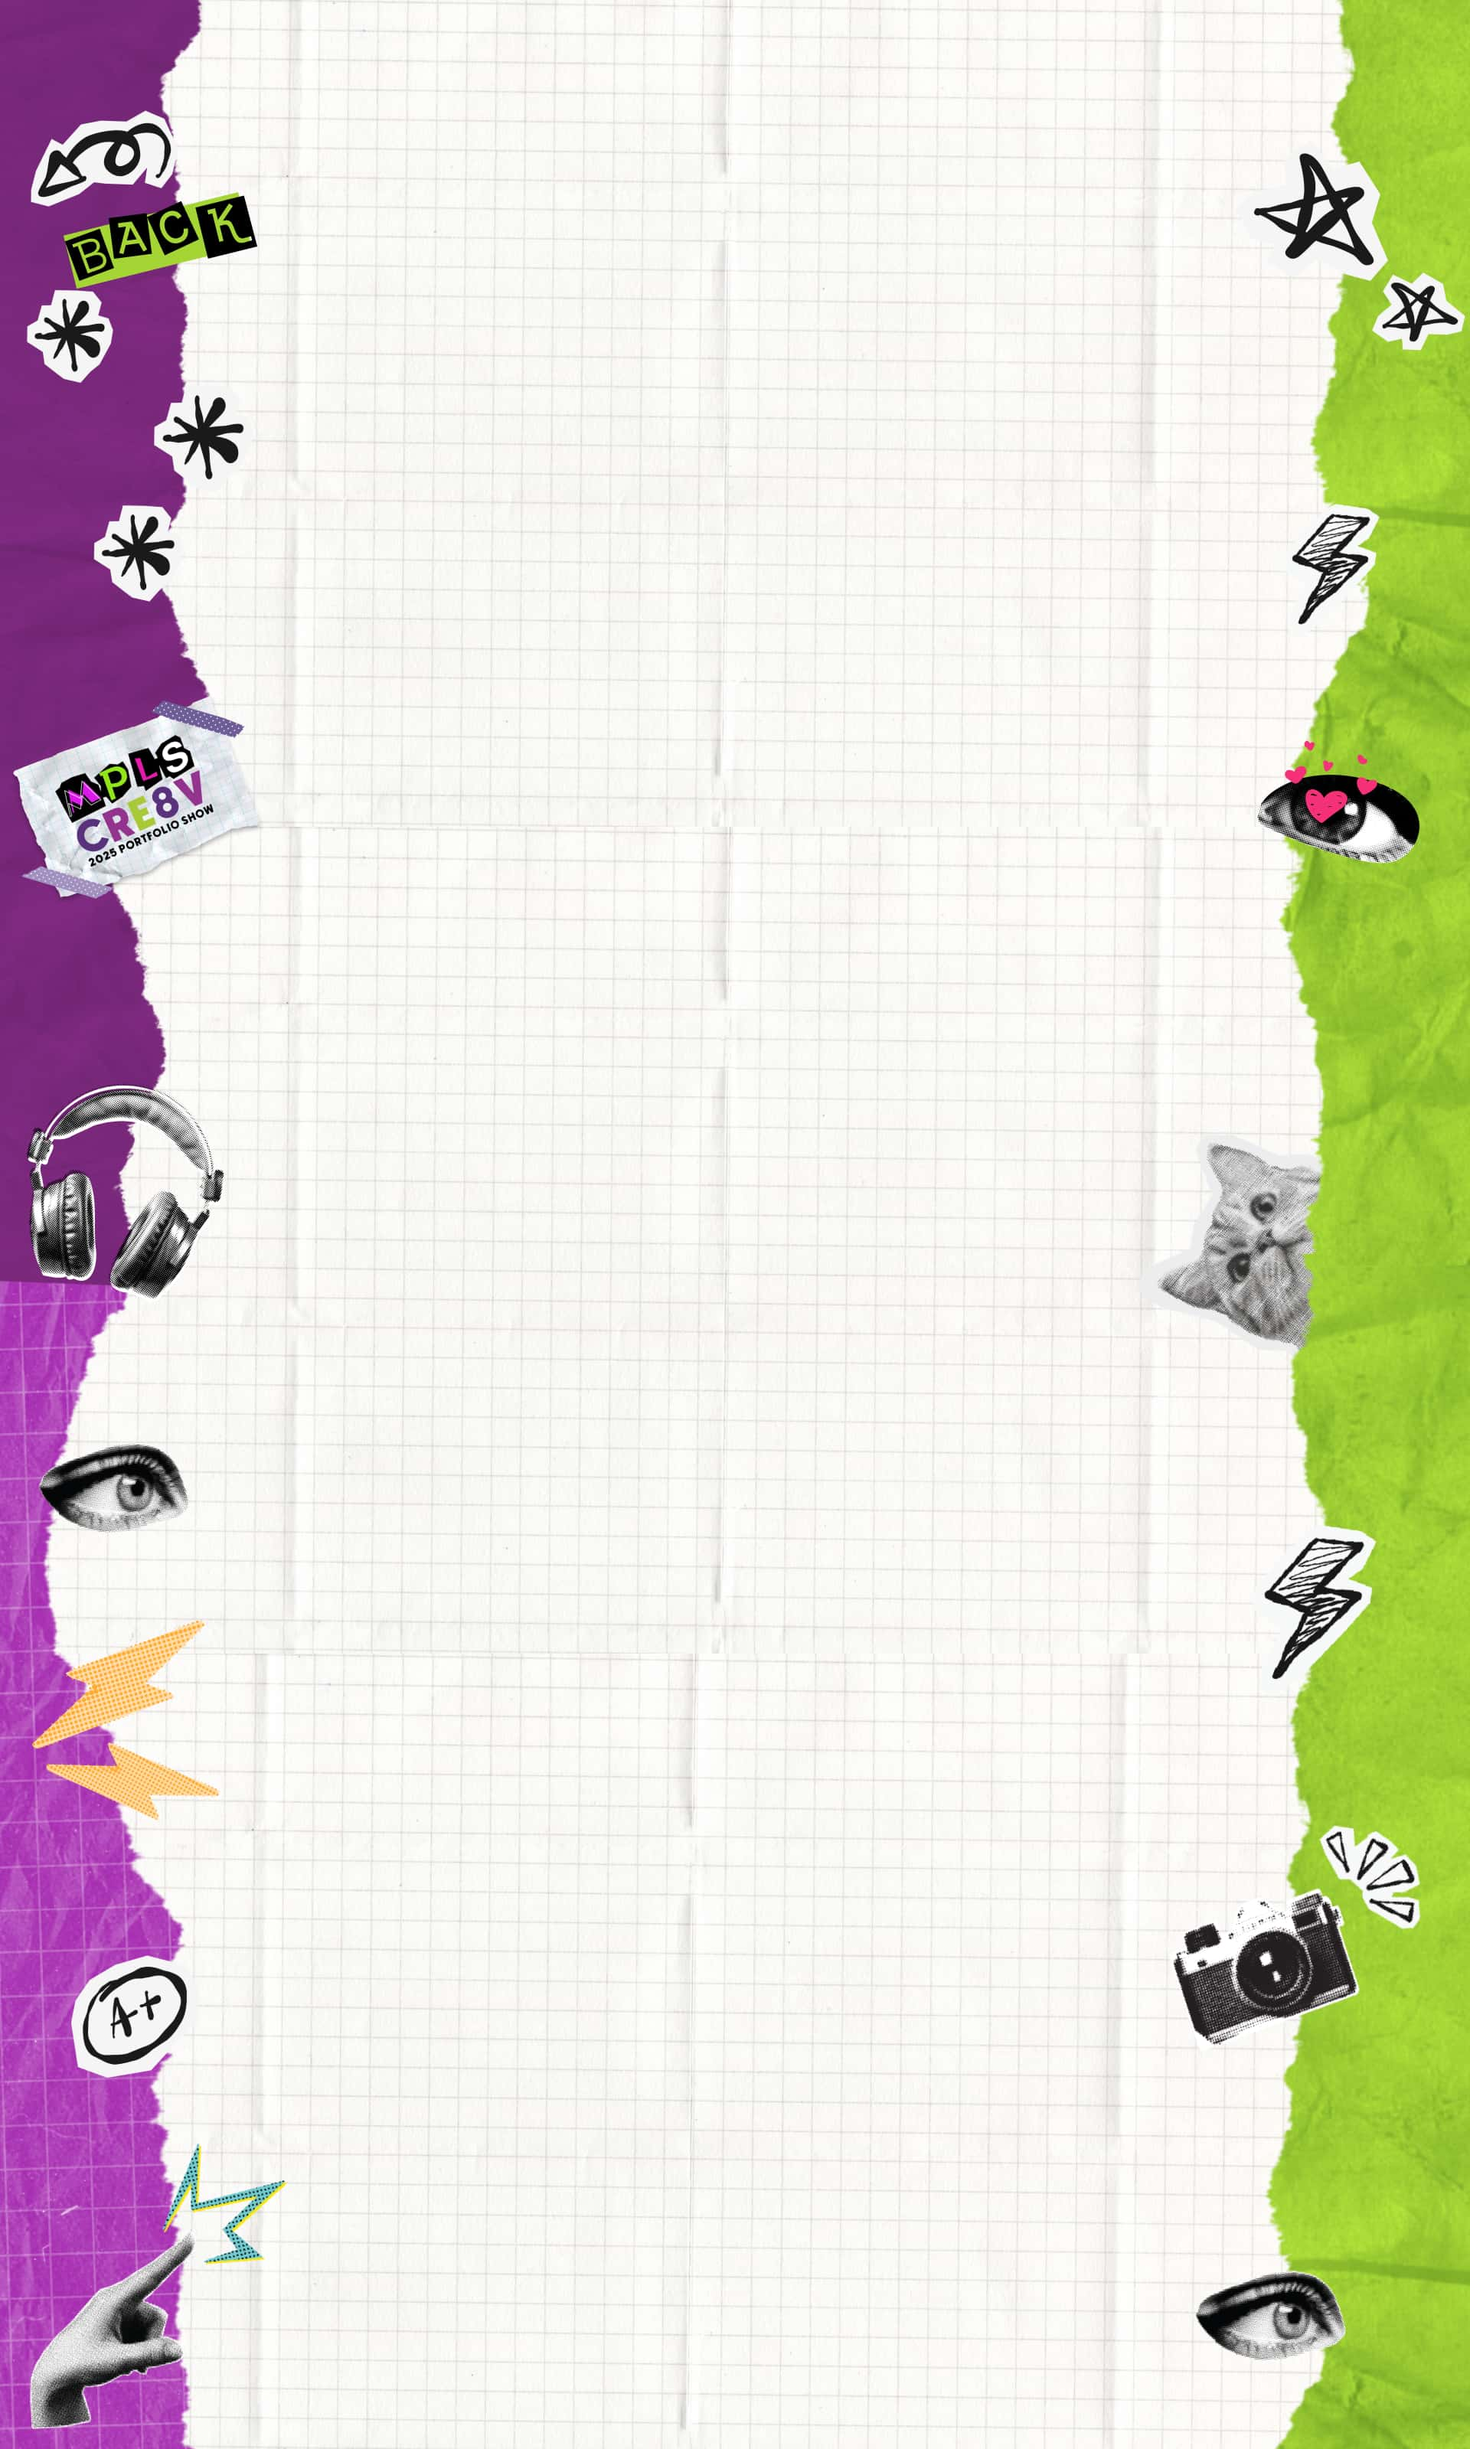
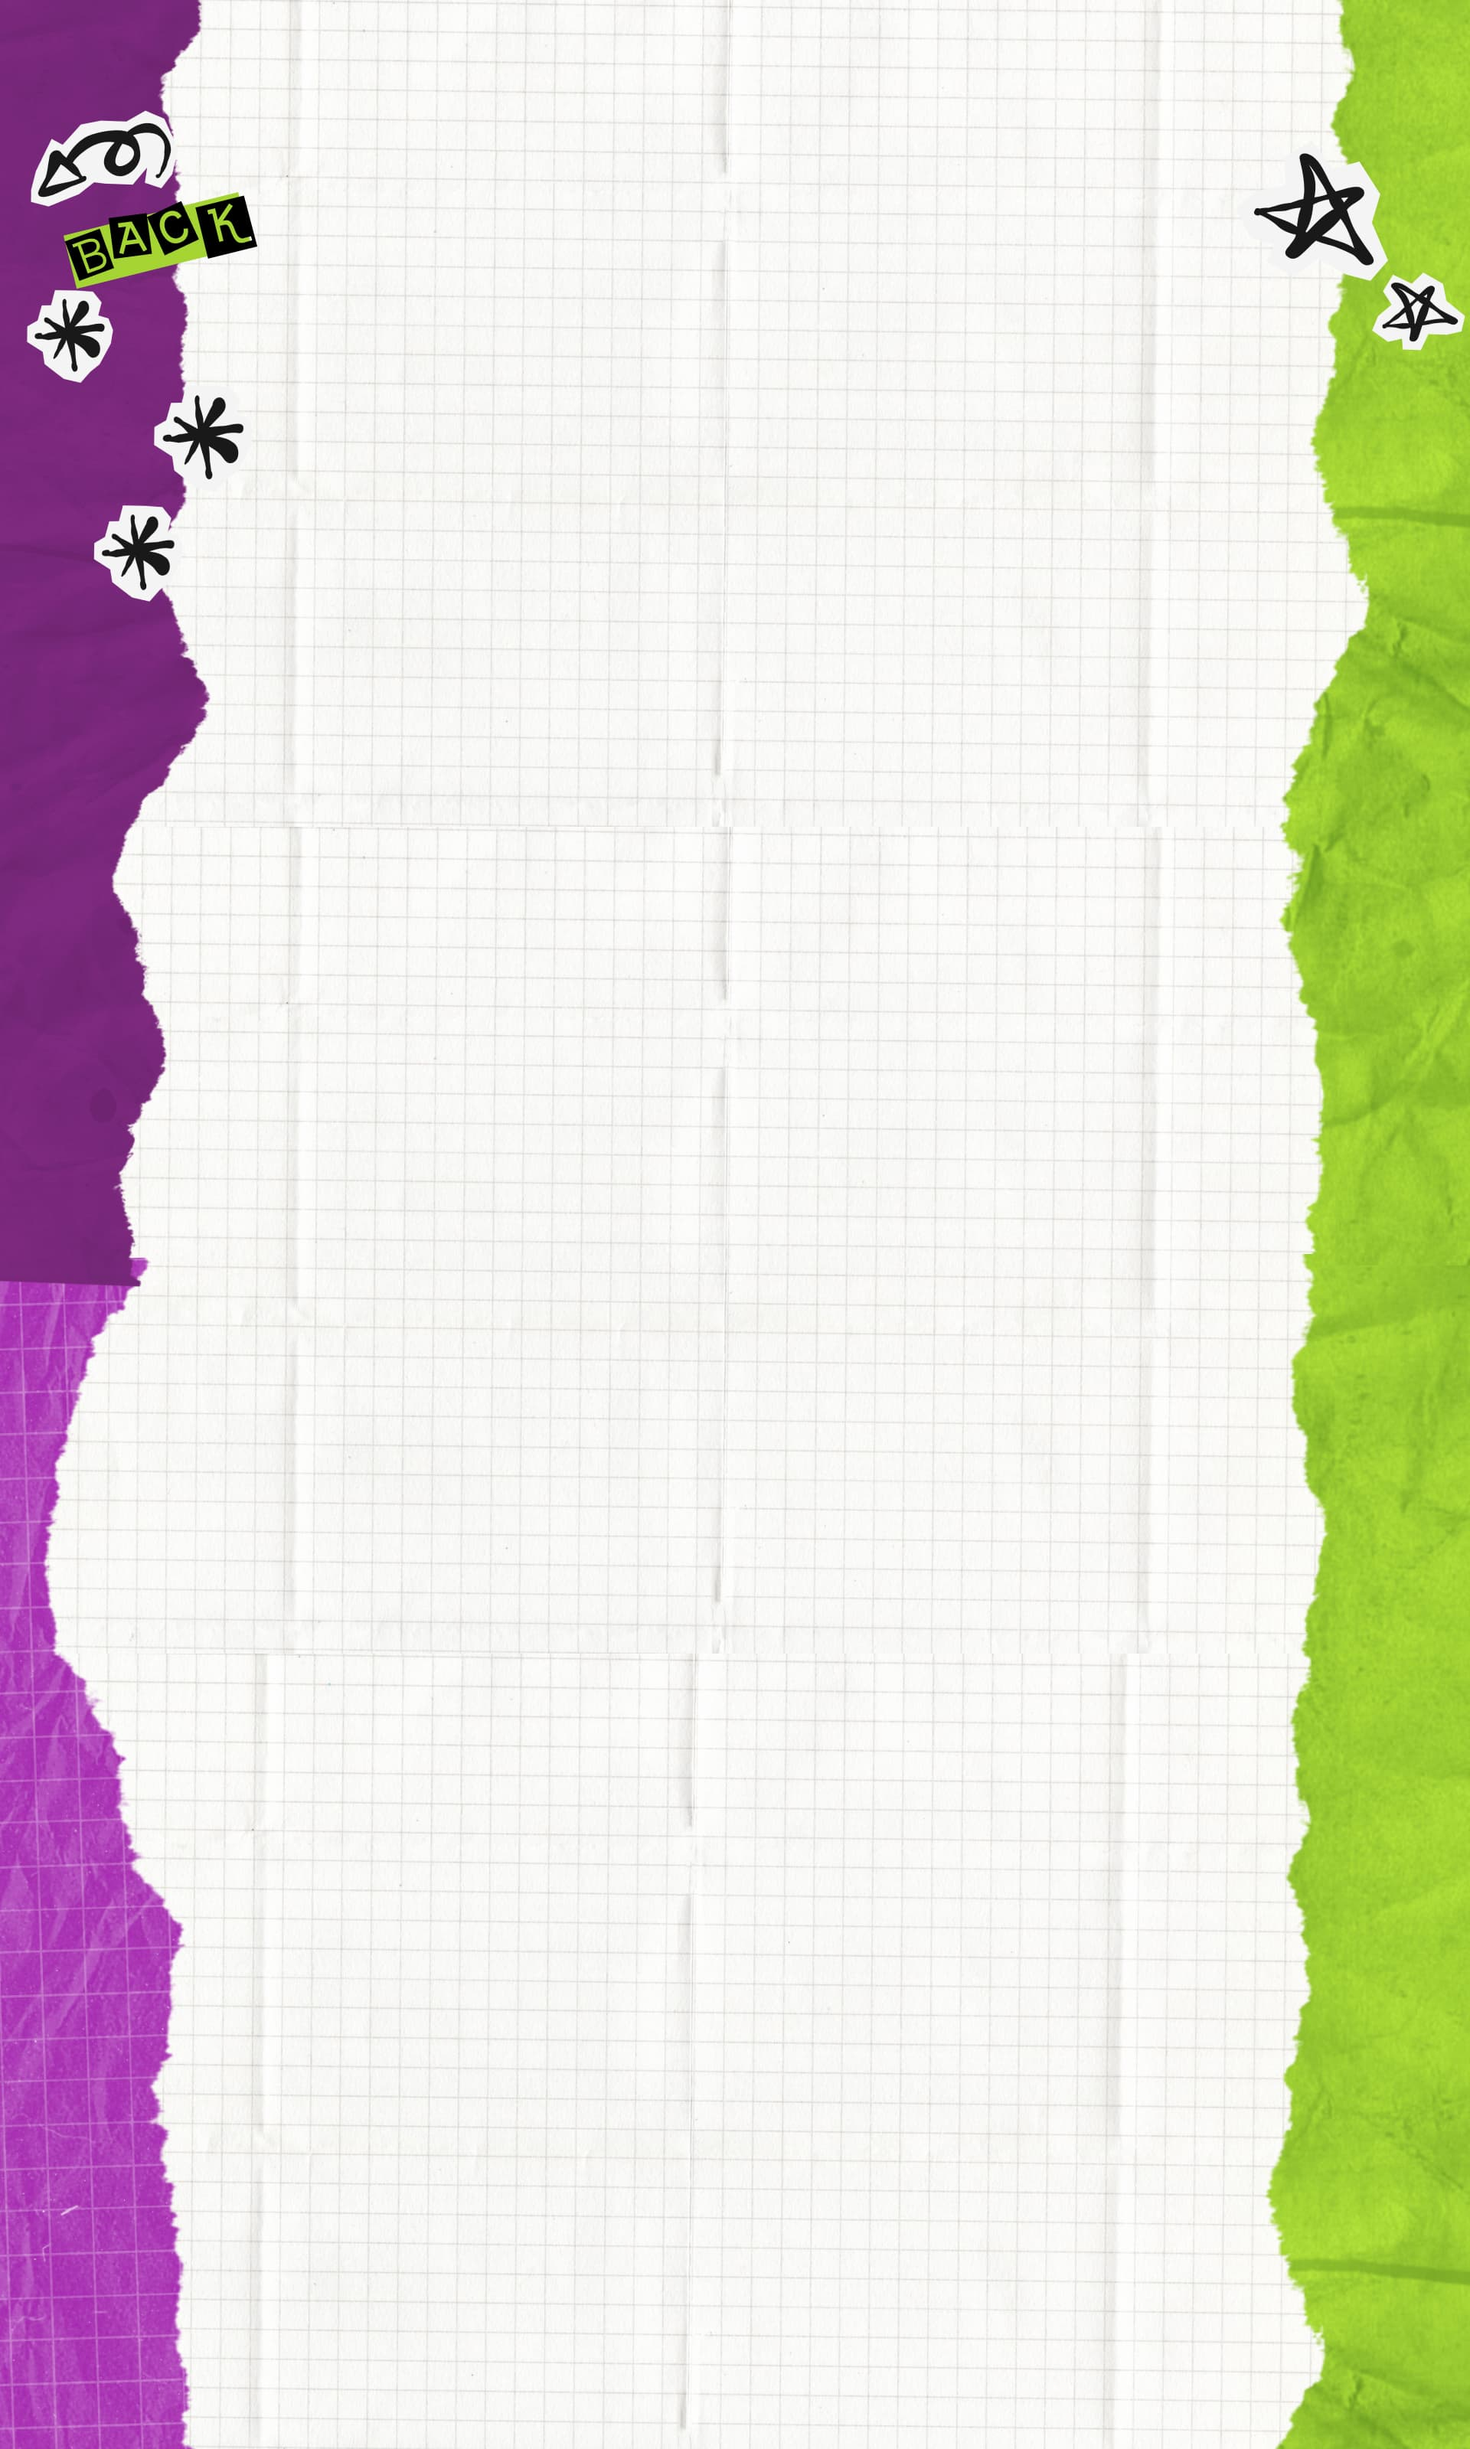
footer css and footer added to student-detail-flat html file

diff --git a/css/footer.css b/css/footer.css
@@ -1,0 +1,150 @@
+footer {
+    width: 100%;
+    background-image: url("../images/footer-bg.png");
+    background-size: initial;
+    height: 15rem;
+    background-position-x: center;
+    background-position-y: -8rem;
+    display: flex;
+    justify-content: space-between;
+    z-index: 100;
+    position: relative;
+    overflow: hidden;
+}
+
+.footer-logo-div,
+.college-logo-div {
+    width: 17rem;
+    text-align: center;
+}
+
+#footer-logo {
+    width: 16rem;
+    position: absolute;
+    left: -2rem;
+    bottom: 0;
+}
+
+#college-logo {
+    width: 8rem;
+  position: absolute;
+  bottom: 2rem;
+  right: 2rem;
+}
+
+.footer-links-div {
+  width: 17rem;
+  position: relative;
+  text-align: center;
+}
+
+footer p {
+    color: black;
+    font-size: 1.1rem;
+    margin-top: 8rem;
+    margin-bottom: 0;
+}
+
+footer ul {
+    list-style-type: none;
+    margin: 0;
+    padding: 0;
+    position: relative;
+    width: 17rem;
+    display: flex;
+    justify-content: space-between;
+    align-items: center;
+  }
+
+footer a:link,
+footer a:visited {
+    color: black;
+    font-size: 1.2rem;
+    text-decoration: none;
+}
+
+footer a:hover,
+footer a:active {
+    text-decoration: underline;
+}
+
+div.dakhota-land-container {
+    display: flex;
+    flex-direction: row;
+    justify-content: flex-end;
+    height: fit-content;
+    position: absolute;
+    width: 100%;
+    bottom: 8rem;
+    z-index: 5;
+}
+
+div.dakhota-land {
+    display: flex;
+  flex-direction: column;
+}
+
+.dakhota-land p {
+    font-family: "Permanent Marker";
+    width: 13rem;
+    font-size: 0.8rem;
+    text-align: center;
+}
+
+.dakhota-land img {
+    width: 13rem;
+}
+
+
+
+/* Medium devices (tablets, less than 1200px) */
+@media (max-width: 1199.98px) {
+    div.dakhota-land-container {
+        bottom: -3rem;
+    }
+ }
+
+/* Small devices (landscape phones, less than 768px) */
+@media (max-width: 767.98px) { 
+    footer {
+        flex-direction: column;
+        /* background-image: none;
+        background-color: #4EC054; */
+        background-position-y: -9rem;
+        height: 18rem;
+    }
+    .footer-logo-div {
+        display: none;
+    }
+    .footer-links-div {
+        width: 100%;
+        top: 4rem;
+        display: flex;
+        flex-direction: column;
+    }
+    footer p {
+        margin-top: 1rem;
+        text-align: center;
+    }
+    footer ul {
+        top: 0;
+        width: 100%;
+        justify-content: space-evenly;
+        width: 15rem;
+        margin: 0 auto;
+    }
+    .college-logo-div {
+        width: 100%;
+        text-align: center;
+    }
+    #college-logo{
+        position: relative;
+        bottom: 3rem;
+        right: 0;
+    }
+    div.dakhota-land-container {
+        position: absolute;
+        bottom: 16rem;
+        justify-content: center;
+    }
+ }

diff --git a/css/studentdetail.css b/css/studentdetail.css
@@ -11,7 +11,7 @@ main {
     background-size: cover;
     max-width: 1400px;
     height: 100%;
-    margin: 0 auto;
+    margin: 0 auto -15rem; /* THE NEGATIVE MARGIN IS NEEDED FOR THE FOOTER */
 }
 nav {
     height: 3rem;
@@ -40,7 +40,7 @@ nav {
     margin-top: 4rem;
 }
 .second-column {
-    padding-bottom: 15rem;
+    padding-bottom: 25rem;
 }
 .extra-tall {
     font-size: 400px;
@@ -83,22 +83,21 @@ nav {
 }
 .major {
     position: relative;
-  top: 1.85rem;
+  top: 0.85rem;
   text-align: center;
   font-size: 1.5rem;
   color: rgb(60, 0, 128)
 }
 .portrait img {
     width: 17rem;
-    position: relative;
-    top: 0.5rem;
-    left: 0.5rem;
+    margin: 0.5rem;
 }
 
 .statement {
     position: relative;
   top: 0.5rem;
   line-height: 1.6rem;
+  text-align: left;
 }
 
 .photo-tile {
@@ -106,6 +105,7 @@ nav {
     position: relative;
     margin: 0 0 1.75rem;
     padding: 0.5rem;
+    margin: 0 auto;
     width: max-content;
     box-shadow: rgba(0, 0, 0, 0.54) 0px 3px 8px;
     transition: transform 0.1s;
@@ -171,7 +171,7 @@ nav {
 }
 #instagram::after {
     content: ' ';
-    background-image: url('../images/instagram2.svg');
+    background-image: url('../images/instagram.svg');
     background-size: contain;
     height: 3rem;
     width: 3rem;
@@ -237,8 +237,13 @@ nav {
     background-color: rgba(0,0,0,0.5);
 }
 
-/* Medium devices (tablets, less than 992px) */
-@media (max-width: 991.98px) {
+/* Medium devices (tablets, less than 1200px) */
+@media (max-width: 1199.98px) {
+    .portrait {
+        top: auto;
+        left: auto;
+        margin: 1rem auto;
+    }
     .paperscrap {
         display: none;
     }
@@ -246,33 +251,28 @@ nav {
         position: relative;
       left: 0;
       rotate: 0deg;
-      top: 1.75rem;
+      top: 0.5rem;
     }
     .photo-tile a img {
         width: 13rem;
     }
     .statement {
-        margin-bottom: 12rem;
+        margin-bottom: 15rem;
+    }
+    .social-links a {
+        margin: 0.1rem;
     }
  }
 
 /* Small devices (landscape phones, less than 768px) */
 @media (max-width: 767.98px) { 
-    .portrait {
-        left: 2rem;
+    body {
+        position: relative;
     }
     .paperscrap {
         display: none;
     }
-    .student-name {
-        position: relative;
-      left: 0;
-      rotate: 0deg;
-      top: 1.75rem;
-    }    
-    .photo-tile {
-    left: 2rem;
-    }
+
     .photo-tile a img {
         width: 16rem;
     }
@@ -281,5 +281,8 @@ nav {
     }
     .statement {
         margin-bottom: 0.5rem;
+    }
+    .second-column {
+        padding-bottom: 35rem;
     }
  }

diff --git a/student-detail-flat.html b/student-detail-flat.html
@@ -13,6 +13,7 @@
     />
     <link rel="stylesheet" href="css/fonts.css" />
     <link rel="stylesheet" href="css/studentdetail.css" />
+    <link rel="stylesheet" href="css/footer.css" />
     <title>Kjrsten Holt on MPLS CR8V 2025</title>
   </head>
   
@@ -22,7 +23,7 @@
     
     <main>
         <div class="container-sm">
-            <div class="row">
+            <div class="row main-content-row">
 
                 <div class="col-sm-2 col-xs-1">
                     <a href="javascript:window.history.back();" class="invisible-button">Back</a>
@@ -77,9 +78,36 @@
                   <!-- Empty space for background images -->
                 </div>
               </div>
-            
+
         </div>
     </main>
+
+    <!-- FOOTER BEGINS HERE -->
+    <div class="dakhota-land-container">
+        <div class="dakhota-land">
+            <img src="images/feathers-2.png" alt="Dakhota Feathers Graphic">
+            <p>Minneapolis College acknowledges & honors the sacred land of the Dakhóta Oyáte</p>
+        </div>
+    </div>
+
+    <footer>
+        <div class="footer-logo-div">
+            <a href="/"><img id="footer-logo" src="images/footer-logo.png" alt="Creative 2025 Logo"></a>
+        </div>
+        <div class="footer-links-div">
+            <p class='poppins-semibold'>PREVIOUS PORTFOLIO SHOWS:</p>
+            <ul class="poppins-regular">
+                <li><a href="https://2024.mplscollegedesignshow.com" target="_blank">2024</a></li>
+                <li><a href="https://2023.mplscollegedesignshow.com" target="_blank">2023</a></li>
+                <li><a href="https://2022.mplscollegedesignshow.com" target="_blank">2022</a></li>
+                <li><a href="https://2021.mplscollegedesignshow.com" target="_blank">2021</a></li>
+            </ul>
+        </div>
+        <div class="college-logo-div">
+            <a href="https://minneapolis.edu" target="_blank"><img src="images/mpls-college-logo.png" id="college-logo" alt="Minneapolis College"></a>
+        </div>
+    </footer>
+    <!-- FOOTER ENDS HERE -->
 
      <script
       src="https://cdn.jsdelivr.net/npm/bootstrap@5.3.5/dist/js/bootstrap.bundle.min.js"
